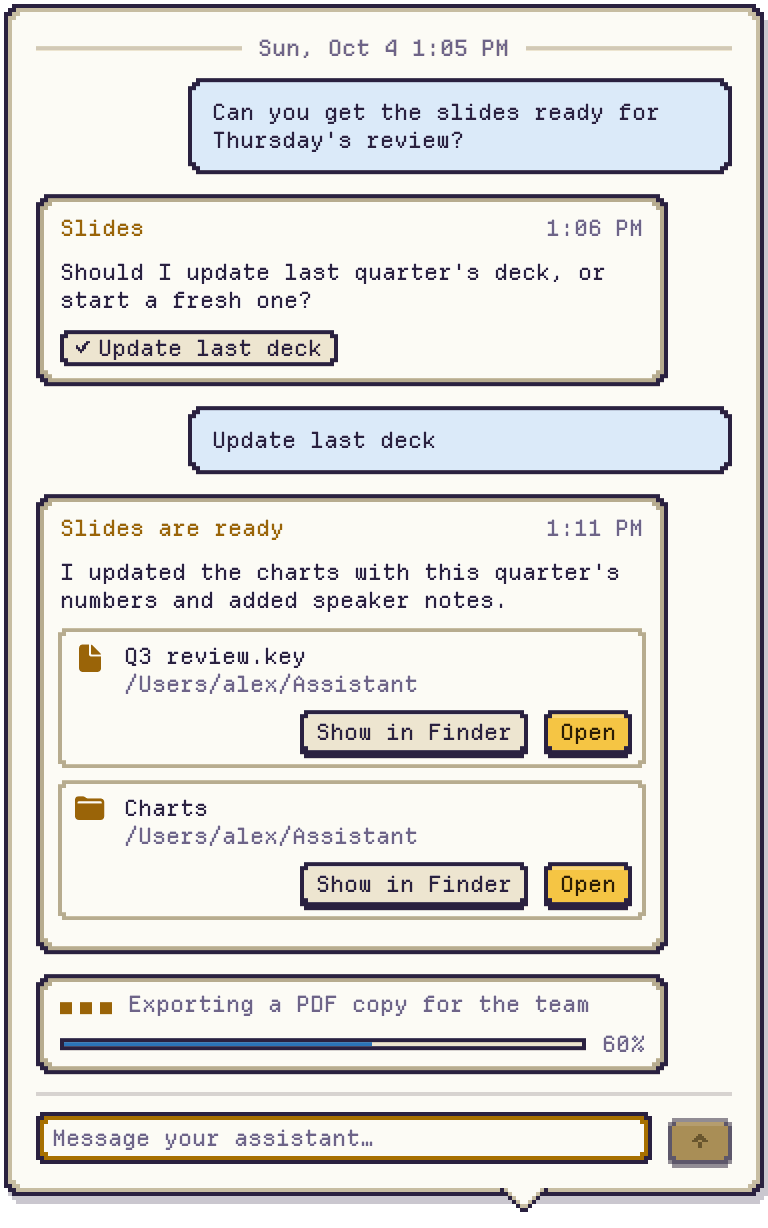
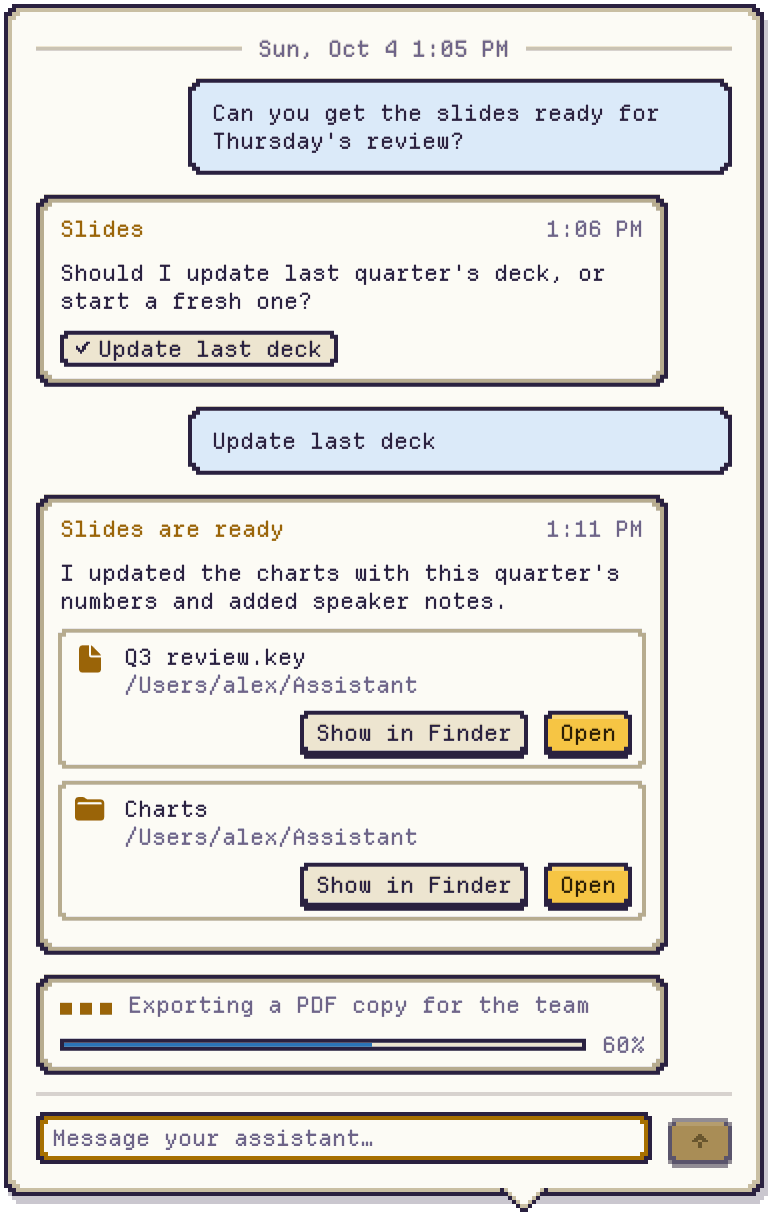
README and SETUP for 0.1.7 and 0.1.8
README: the status strip bullet, themes and your own files with a two-theme
render, ghost mode and the resizable panel, "Your assistant can control
Zeus" with the Undo example, "Learn from me" with the Settings caveat,
and replies routing beyond tmux. SETUP: assistant control and its switches
and template rules, Learn from me with the privacy sheet text, Fade Zeus
when idle, the panel edge, and the status strip. The conversation render is
regenerated from current main.

Claude-Session: https://claude.ai/code/session_012r8H4QHL5ohdtdo5L588Z2

diff --git a/scripts/design-harness/DesignerAuditRenders.swift b/scripts/design-harness/DesignerAuditRenders.swift
@@ -950,7 +950,31 @@ extension DesignerAuditRenders {
             try await Readme.still("peek-\(look.name)", appearance: look.appearance, ReadmePeek())
             try await conversation(look)
             try await settings(look)
+            try await themes(look)
         }
+    }
+
+    /// "Make me a cat character" → the Undo line → the assistant's reply, in two themes side by side (R4).
+    private func themes(_ look: (name: String, appearance: NSAppearance.Name)) async throws {
+        var fixtures: [Fixture] = []
+        defer { fixtures.forEach { $0.cleanup() } }
+        let base = Date(timeIntervalSince1970: 1_791_137_100)
+        func at(_ minutes: Double) -> Date { base.addingTimeInterval(minutes * 60) }
+        for theme in ["olympus", "phosphor"] {
+            let f = Fixture(font: .pixel)
+            fixtures.append(f)
+            f.settings.setTheme(id: theme)
+            f.messaging.sessions = [Readme.session]
+            f.store.add(Card(id: "u_1", kind: .userMessage, body: "Make me a cat character.", createdAt: at(0), updatedAt: at(0)))
+            f.store.recordNotice(ThreadNotice(kind: .appChange, createdAt: at(1), summary: "Added Pixel Cat", actionTitle: "Undo"),
+                                 action: {}, doneTitle: "Undone")
+            f.store.add(Card(id: "c_1", kind: .message, body: "Here's **Pixel Cat**. Want a different coat color?",
+                             sessionKey: Readme.session.sessionKey, createdAt: at(1.1), updatedAt: at(1.1)))
+        }
+        let pair = HStack(alignment: .top, spacing: 24) {
+            ForEach(Array(fixtures.enumerated()), id: \.offset) { _, f in f.conversation().padding(2) }
+        }
+        try await Readme.still("themes-\(look.name)", appearance: look.appearance, settle: 0.8, pair)
     }
 
     /// Ask → one-click answer → finished work with Open and Reveal → the next job in progress.

diff --git a/docs/SETUP.md b/docs/SETUP.md
@@ -6,7 +6,7 @@ Zeus is a small animated character on your desktop that acts as the face of your
 
 1. Open the Zeus disk image and drag **Zeus** into **Applications**.
 2. Open Zeus. It lives in the **menu bar** (⚡) and has no Dock icon. The character appears on your desktop:
-   - **Click** it to open the conversation;
+   - **Click** it to open the conversation (drag the panel's edge to make it wider);
    - **drag** it anywhere (it remembers where you put it);
    - **right-click** it for quick controls: Talk to Zeus, Settings, Character, Size, Hide.
 3. Open **Settings → Assistant** from the menu bar (⚡ → **Settings…**, or ⌘,).
@@ -46,11 +46,55 @@ In **Settings → Assistant**, choose **Zeus runs it**. Zeus starts the agent in
 - **Claude Code messages use its Terminal pane.** Zeus's tools are allowed for this launch only, while the permission mode you chose still governs other work. The managed launch skips the development-channel flag: Claude Code 2.1.296 cannot register a channel from the launch-only MCP configuration. Your global and project configuration stays intact.
 - **Start a New Conversation** gives the assistant a fresh start with your current instructions.
 
+### Let your assistant control Zeus
+
+Ask your assistant to change Zeus and it can: switch the character or theme, make a new one from your description, move Zeus, change its size, hide it for a while (1 minute to 12 hours, or until tomorrow) and change the appearance settings. Each change adds one line to the conversation with a single button, **Undo** (or **Show now** after a hide), for example *Added Pixel Cat · Undo*. Undoing a new character or theme switches back but keeps the file.
+
+It never changes its own authority. It can't answer, dismiss or pick an option in any prompt; change its permission mode, instructions, agent, folder or run mode; start, stop or restart itself; clear the conversation; turn on launch at login, Learn from me or automatic update checks; or touch your agent's configuration. It also can't turn quiet hours off while a question is waiting for you.
+
+It can check for updates and, when you ask, install one. Zeus says *"Updating to 0.1.9 — back in a few seconds"* first, and your assistant keeps running through the relaunch.
+
+**Settings → General** has two switches, both on by default:
+- **Let my assistant control Zeus**: off, and every change is refused.
+- **Let my assistant install updates**: off, and it can still check, but not install.
+
+The assistant learns the rules from the `AGENTS.md` in its folder (new folders get it from **Create one for me**) and from Zeus itself when it connects. The template says:
+- Change Zeus's character, theme, size or appearance only when I ask, or to use something you just made at my request.
+- Prefer moving Zeus near the active window over exact coordinates, and don't move it while I'm typing to it.
+- Never hide Zeus indefinitely.
+- Install an update only when I ask or have told you to keep Zeus current.
+
+A folder made before 0.1.8 doesn't have that section; copy it from a new one if you like. Zeus enforces the rules either way.
+
+### Learn from me
+
+**Settings → Privacy → Learn from me** is off until you turn it on. The first time, Zeus explains what it records:
+
+> Zeus records how you use this Mac so your assistant can pick better moments to help. Each morning it sends a short summary of the day before.
+>
+> **Zeus records:** which app is in front, and when it changes · apps opening and quitting · locking, sleeping and waking your Mac · times with no input for 5 minutes or more · how many displays are connected.
+>
+> **Zeus never records:** what you type, copy or paste · window titles, web addresses and file names · screenshots, audio or your location.
+>
+> Apps on your private list count only as private time, with no name.
+>
+> Summaries go to your assistant, which sends them to its model provider like any message. Raw activity never leaves this Mac.
+
+Choose **Turn On** or **Not Now**. Then, in the same pane:
+- **What Zeus has recorded** lists today's events in plain words, newest first.
+- **Notes to your assistant:** besides the morning summary, up to four notes a day: first activity of the day, back from a break of 2 hours or more, a later start than usual, and the day winding down. Untick any you don't want.
+- **Private apps** starts with common password managers, Keychain Access, Passwords and System Settings. **Add App…** adds another.
+- **Keep activity for** 7, 14, 30, 60 or 90 days (30 by default). Summaries are kept for a year.
+- **Pause for Today** stops recording until midnight. **Delete Everything…** removes all activity and summaries, after asking.
+
+Each summary or note also adds a quiet line to the conversation, such as *Sent your daily summary · View*. **View** shows the exact text your assistant got.
+
 ## 3. Pick a character
 
 **Settings → Character**:
 - Pick one of 12 characters: Zeus, Wisp, Jack, Gizmo, Sprout, Merlo, Midnight, Bones, Gloop, Nyx, Hoot or Spore.
 - **Size** (Small, Medium or Large) sets how big it draws.
+- **Fade Zeus when idle** makes the character see-through (10–90 %) after a while without use (5 seconds to 10 minutes). It comes back when you point at it, click it, or something new arrives. It still takes clicks while faded.
 - **Reset Avatar Position** brings it back if it's ever off screen.
 
 Your assistant can also change the costume when you ask it to.
@@ -157,6 +201,23 @@ When you answer a question or type a message, Zeus saves it before sending anyth
 - The agent confirms each message it has handled. The instructions in `AGENTS.md` teach it to.
 - Without a confirmation, Zeus sends the message again after 3, 6, 12 and 24 minutes. The agent ignores repeats it has already handled.
 - A message for a session that's away waits, and goes out when it's back.
+
+### The status strip
+
+A line between the conversation and the message field says why Zeus looks the way it does, and takes you there in one click (or ⌘J):
+
+| Zeus shows | The strip says | Click it to |
+|---|---|---|
+| "?" | **? Waiting for your answer · Go to question**, or **? 2 questions · Go to oldest** | jump to the question, ready to answer; again for the next one |
+| "!" | **! 3 unread · Show** | jump to the first message you haven't seen |
+| "!" (Zeus runs it) | **! Waiting for you in Terminal · Open** | open Terminal |
+| working | what it's doing, e.g. *Claude is working on tests* | jump to the bottom |
+| red "!" | **Message not delivered · Show** | jump to the message |
+| asleep | **Quiet until 8:00** | |
+
+**Skip** (⌘⇧J) closes the oldest open question without an answer and tells your assistant you skipped it, so it moves on instead of asking again. The agent's own Terminal prompts can't be skipped.
+
+On the right: **Open in Terminal** (when there's a terminal to open), **Start New Conversation…** (Zeus runs it), **Clear Conversation…** and **Assistant Settings…**. Clicking Zeus while it shows "?" or "!" opens the conversation at that question or message.
 
 **When something's stuck**, the character shows a red "!" and the menu says *"Couldn't reach your assistant. Zeus will keep trying."* Choose **Delivery problem…** to see what's waiting and to **Retry Now** or **Discard**. Nothing is thrown away until you discard it.
 

diff --git a/README.md b/README.md
@@ -28,6 +28,7 @@ Your assistant works in a terminal you're not watching. Zeus sits on your deskto
 - **Asks, and you answer in one click.** When your assistant needs a decision, a speech bubble pops up next to Zeus. Click an answer, or type one.
 - **Hands you finished work.** Files, folders and links, ready to open.
 - **Sends your replies back.** Type to Zeus and your message goes straight to your assistant.
+- **Tells you what's waiting.** A strip above the message field says why Zeus shows "?" or "!" and takes you there in one click. **Skip** a question you'd rather not answer. Its four buttons open Terminal, start a new conversation, clear the conversation and open Settings.
 - **Knows when to be quiet.** Set quiet hours and Zeus won't bother you.
 
 <br clear="right">
@@ -65,10 +66,40 @@ Already run your assistant yourself? Choose **Connect your own** and Zeus joins 
 
 Twelve cute characters to choose from, or build your own (see [Make your own character](docs/SETUP.md#make-your-own-character) and [the sprite format](docs/design/SPRITE_FORMAT.md)).
 
+<p align="center">
+  <picture>
+    <source media="(prefers-color-scheme: dark)" srcset="docs/readme/themes-dark.png">
+    <img src="docs/readme/themes-light.png" width="792" alt="The same conversation in the Olympus and Phosphor themes: “Make me a cat character.”, the line “Added Pixel Cat · Undo”, then “Here's Pixel Cat. Want a different coat color?”">
+  </picture>
+</p>
+
+Seven themes color the conversation and Zeus's speech bubble: Classic, Midnight, Parchment, Olympus, Phosphor, Pocket and Sorbet (Settings › Appearance). Themes and characters are plain JSON files: press **Open Example** to see how one is made, or **Import Theme…** and **Import Character…** to add one someone sent you.
+
+**Fade Zeus when idle** makes the character see-through until you need it. Drag the conversation panel's edge to make it wider.
+
+## Your assistant can control Zeus
+
+Ask, and your assistant can change anything you could change by clicking: the character or theme (including ones it makes for you), Zeus's size and place on screen, hiding Zeus for a while, and the appearance settings. It never changes its own authority: it can't answer its own prompts, change its permissions, instructions or folder, start or stop itself, clear the conversation or turn on Learn from me.
+
+Every change shows up as one line in the conversation with an **Undo**:
+
+> **You:** Make me a cat character.<br>
+> Added Pixel Cat · **Undo**
+
+It can also check for updates and install one when you ask. Two switches in Settings › General turn this off: **Let my assistant control Zeus** and **Let my assistant install updates**.
+
+## Learn from me
+
+Off until you turn it on in Settings › Privacy. Zeus then notes which app is in front, apps opening and quitting, when you lock, sleep or step away, and how many displays you use. It never records what you type, copy or read, window titles, web addresses or file names. Time in apps on your private list (password managers, to start) counts only as private time.
+
+Each morning your assistant gets a short summary of the day before, and up to four short notes a day, such as when you're back from a break, so it can pick better moments to help. Settings › Privacy shows exactly what was recorded today, pauses it for the day and deletes everything.
+
+Summaries go to your assistant, which sends them to its model provider like any message. Raw activity never leaves this Mac.
+
 ## How it works
 
 - `zeus-mcp` is an MCP server your assistant connects to. Its tools (`zeus_say`, `zeus_ask`, `zeus_present`, `zeus_set_status`, …) drive the character and the conversation panel.
-- Your replies go back into the assistant's terminal session through tmux. Each one is acknowledged, so a message is never lost or delivered twice.
+- Your replies go back to the session that asked: through its Terminal pane in tmux, Claude Code's channel or OpenCode's local server. Each one is acknowledged, so a message is never lost or delivered twice.
 - Everything stays on your Mac. Zeus never calls model APIs, never edits your agent's settings and never accepts prompts on your behalf. If you turn on Settings › Privacy › Learn from me, Zeus sends short summaries of when and in what apps you work to your assistant, which passes them to its model provider like any message; the raw activity never leaves your Mac.
 
 The interfaces are documented in [docs/CONTRACT.md](docs/CONTRACT.md).
